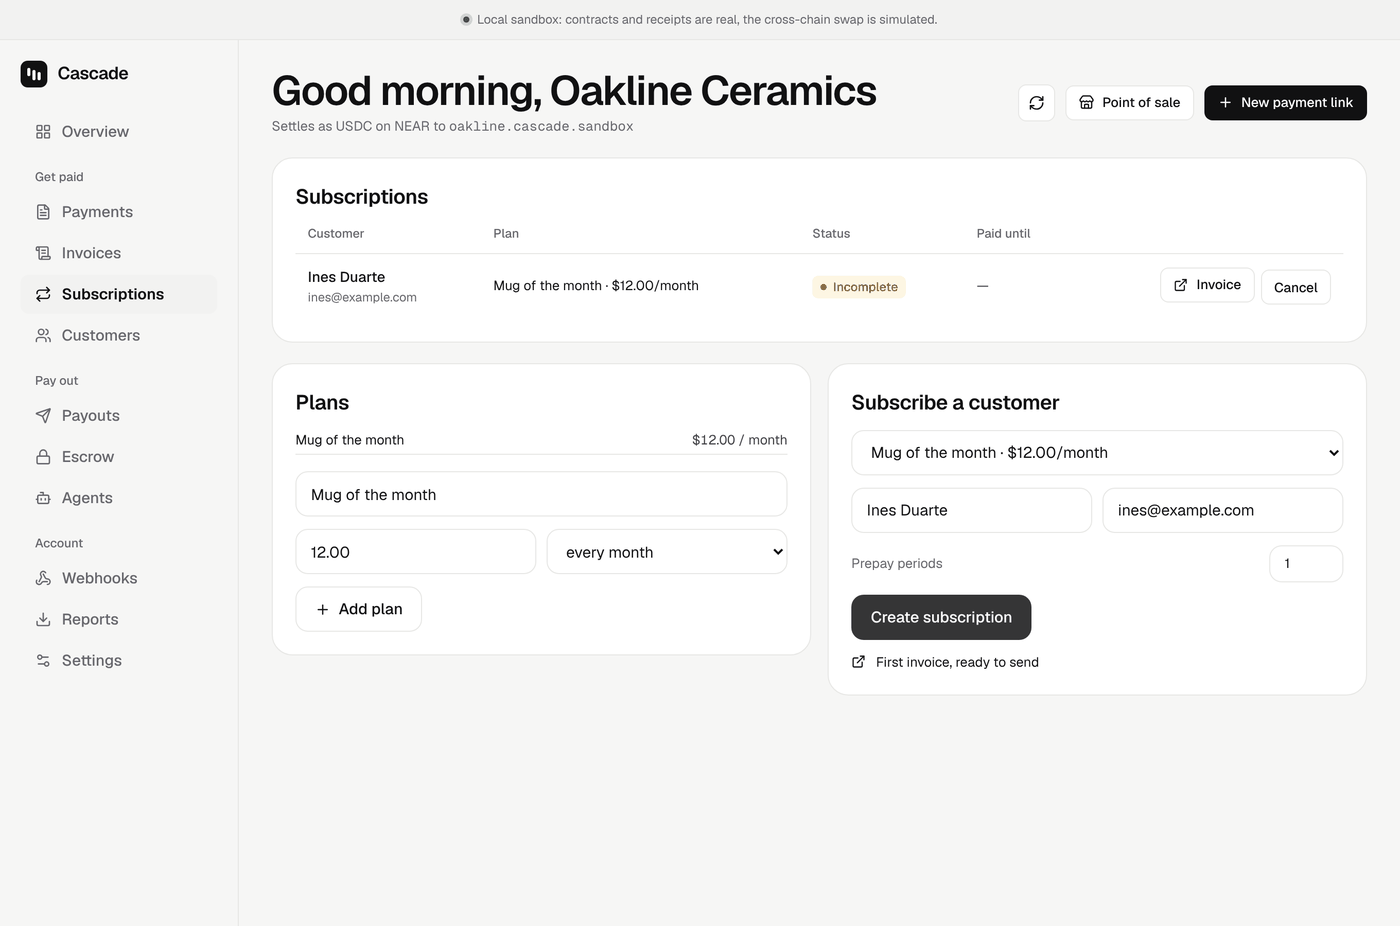
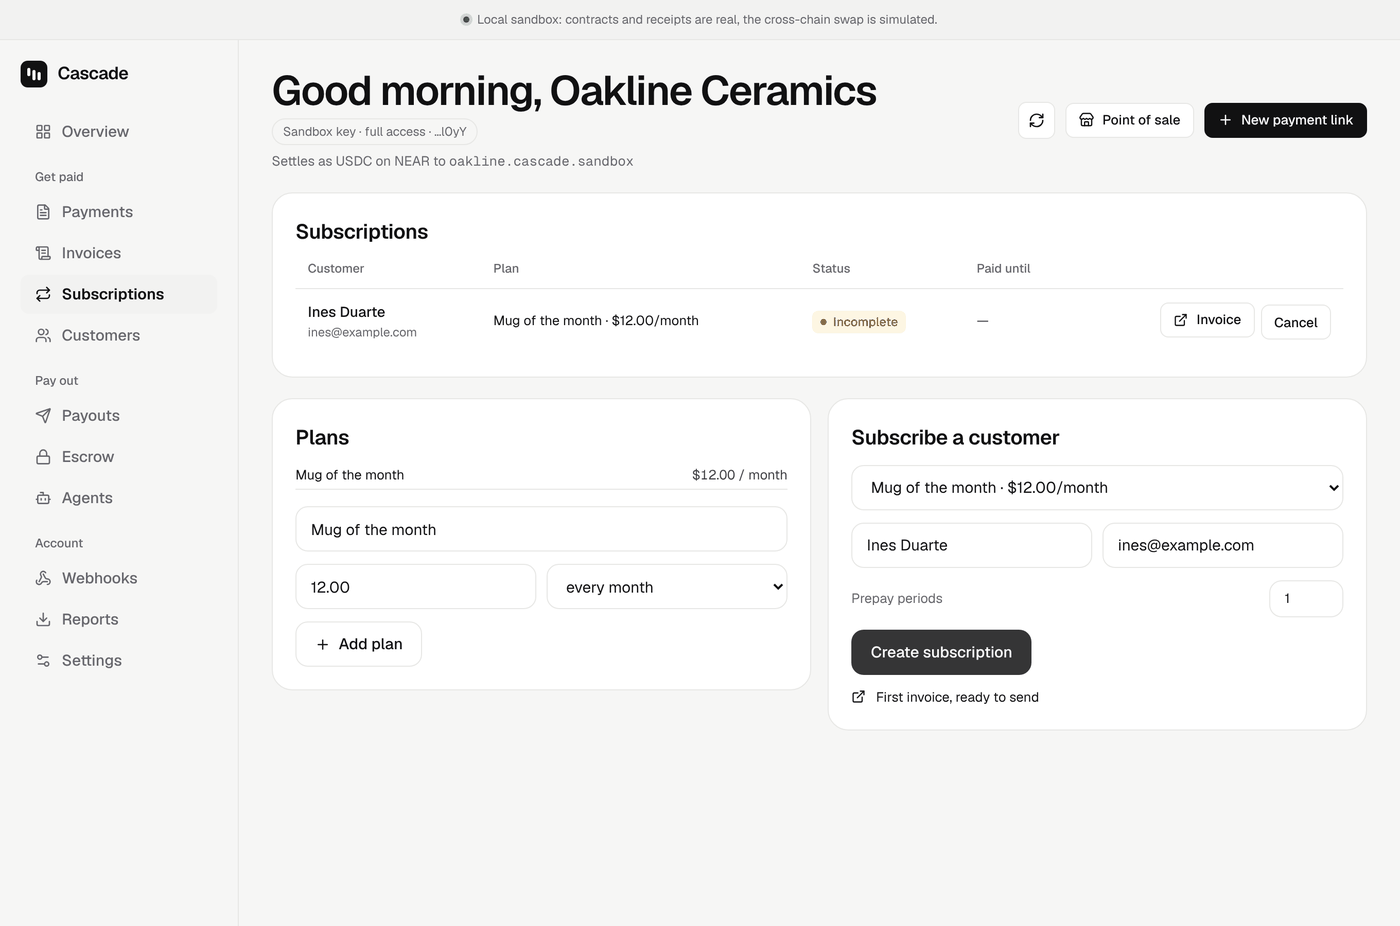
Round globe hero, mobile dashboard bar, safer wallet and key flow
- The orb is a true circle at every width (canvas follows its square box).
- Hero redesigned as a globe: coin pills placed by angle on the rim, one
  payment's route drawn across it, the payment in the centre and the
  receipt underneath.
- Dashboard below 900px: compact sticky bar with one scrollable tab row
  instead of the wrapped sidebar.
- A rejected or revoked key returns to sign-in with a message; the header
  shows which key is in use (sandbox or live, full or read-only).
- The NEAR wallet connector loads only when asked, and browsers without
  Ed25519 in WebCrypto get a clear message instead of an error on load.
- README screenshots refreshed.

diff --git a/apps/web/app/globals.css b/apps/web/app/globals.css
@@ -203,8 +203,14 @@ button { font: inherit; color: inherit; }
 }
 @media (max-width: 900px) {
   .dash { grid-template-columns: 1fr !important; }
-  .dash-side { flex-direction: row !important; flex-wrap: wrap; align-items: center; border-right: 0 !important; border-bottom: 1px solid var(--line); position: static !important; height: auto !important; }
-  .dash-side nav { display: flex !important; }
+  .dash-side { display: grid !important; grid-template-columns: 1fr auto; align-items: center; gap: 10px !important; padding: 12px 16px 0 !important; border-right: 0 !important; border-bottom: 1px solid var(--line); position: sticky !important; top: 0; z-index: 20; height: auto !important; background: var(--bg); }
+  .dash-side > nav { grid-column: 1 / -1; grid-row: 2; display: flex !important; gap: 4px !important; overflow-x: auto; scrollbar-width: none; margin: 0 -16px; padding: 0 16px 10px; }
+  .dash-side > nav::-webkit-scrollbar { display: none; }
+  .dash-side > nav > div { display: contents !important; }
+  .dash-side > nav .tiny { display: none; }
+  .dash-side .nav-item { flex: none; white-space: nowrap; }
+  .dash-side > button { margin-top: 0 !important; grid-column: 2; grid-row: 1; }
+  .dash > main { padding: 20px 16px 48px !important; }
   .dash-two { grid-template-columns: 1fr !important; }
 }
 
@@ -283,34 +289,44 @@ button { font: inherit; color: inherit; }
 .nav-menu-sheet a:hover { background: var(--card-2); color: var(--ink); }
 @media (max-width: 860px) { .nav-menu { display: block; } }
 
-/* ---------- hero: the dot cascade, monochrome */
-.hero-preview { position: relative; display: grid; place-items: center; padding: 28px 0; }
-.globe { position: relative; width: min(100%, 430px); aspect-ratio: 1; display: grid; place-items: center; }
+/* ---------- hero: the globe, monochrome */
+.hero-preview { position: relative; display: grid; justify-items: center; gap: 18px; padding: 24px 0; }
+/* Room on each side for the coin pills that sit on the rim. */
+.globe { position: relative; width: min(calc(100% - 72px), 440px); aspect-ratio: 1 / 1; }
+.globe > canvas { position: absolute; inset: 0; }
 
-/* Coins drift over the sphere. The logos are single-colour, so dark mode just inverts them. */
-.coin-float { position: absolute; display: grid; place-items: center; margin: -5% 0 0 -5%; animation: bob 7s ease-in-out infinite; }
-.coin-float img { width: 100%; height: 100%; opacity: .92; filter: drop-shadow(0 6px 14px color-mix(in srgb, var(--ink) 22%, transparent)); }
-@keyframes bob { 0%, 100% { transform: translateY(-5px); } 50% { transform: translateY(5px); } }
+.coin-pill { position: absolute; z-index: 2; transform: translate(-50%, -50%); display: inline-flex; align-items: center; gap: 6px; padding: 5px 11px 5px 6px; border-radius: 999px; background: var(--card); border: 1px solid var(--line); box-shadow: var(--shadow); font-size: 0.75rem; font-weight: 600; letter-spacing: .01em; white-space: nowrap; animation: pill-bob 7s ease-in-out infinite; }
+.coin-pill img { width: 18px; height: 18px; }
+@keyframes pill-bob { 0%, 100% { transform: translate(-50%, calc(-50% - 3px)); } 50% { transform: translate(-50%, calc(-50% + 3px)); } }
 
-/* Cards sit in the corners the circle leaves empty, clear of the sphere. */
-.globe-chip { position: absolute; z-index: 2; display: inline-flex; align-items: center; gap: 8px; white-space: nowrap; padding: 11px 15px; border-radius: var(--r-md); background: var(--card); border: 1px solid var(--line); box-shadow: var(--shadow); font-size: 0.8125rem; font-weight: 500; animation: float-in .6s cubic-bezier(.2,.7,.2,1) both; }
-.chip-paid { top: 0; right: 0; animation-delay: .35s; }
-.chip-receipt { bottom: 0; left: 0; animation-delay: .55s; }
+/* One payment's route across the sphere. */
+.globe-route { position: absolute; inset: 0; width: 100%; height: 100%; overflow: visible; pointer-events: none; }
+.globe-route path { fill: none; stroke: var(--ink); stroke-width: .5; stroke-dasharray: 1.2 1.6; vector-effect: non-scaling-stroke; stroke-width: 1.5; opacity: .7; animation: route 2.4s linear infinite; }
+.globe-route circle { display: none; }
+@keyframes route { to { stroke-dashoffset: -28; } }
+.route-dot { position: absolute; z-index: 1; width: 14px; height: 14px; margin: -7px 0 0 -7px; border-radius: 50%; background: var(--ink); box-shadow: 0 0 0 5px color-mix(in srgb, var(--ink) 14%, transparent); }
+.route-dot.end { background: var(--card); border: 3px solid var(--ink); }
+
+.globe-pay { position: absolute; z-index: 3; left: 50%; top: 56%; transform: translate(-50%, -50%); display: inline-flex; align-items: center; gap: 8px; padding: 10px 16px; border-radius: 999px; background: color-mix(in srgb, var(--card) 88%, transparent); backdrop-filter: blur(8px); -webkit-backdrop-filter: blur(8px); border: 1px solid var(--line); box-shadow: var(--shadow); font-size: 0.8125rem; white-space: nowrap; }
+.globe-arrow { font-weight: 600; }
+
+.globe-receipt { position: relative; display: inline-flex; align-items: center; gap: 8px; padding: 11px 15px; border-radius: var(--r-md); background: var(--card); border: 1px solid var(--line); box-shadow: var(--shadow); font-size: 0.8125rem; font-weight: 500; animation: float-in .6s .4s cubic-bezier(.2,.7,.2,1) both; }
 .stub-perf { position: absolute; left: 14px; right: 14px; top: -1px; border-top: 1.5px dashed var(--line-strong); }
 
-@media (prefers-reduced-motion: reduce) { .coin-float { animation: none; } }
-@media (max-width: 900px) {
-  .globe { width: min(100%, 320px); }
-  .globe-chip { font-size: 0.75rem; padding: 9px 12px; }
-  .chip-paid { top: -6px; right: -6px; }
-  .chip-receipt { bottom: -6px; left: -6px; }
+@media (prefers-reduced-motion: reduce) { .coin-pill, .globe-route path { animation: none; } }
+@media (max-width: 560px) {
+  .globe { width: min(calc(100% - 64px), 340px); }
+  .coin-pill { font-size: 0.6875rem; padding: 4px 9px 4px 5px; }
+  .coin-pill img { width: 15px; height: 15px; }
+  .globe-pay { font-size: 0.75rem; padding: 8px 12px; gap: 6px; top: 62%; }
+  .globe-pay .muted:last-child { display: none; }
 }
 
 @media (max-width: 560px) { .net-chip { display: none; } .nav-inner { gap: 8px; } }
 
 /* The coin logos ship black; dark mode flips them to white. */
-@media (prefers-color-scheme: dark) { :root:not([data-theme="light"]) .coin-float img { filter: invert(1) drop-shadow(0 6px 14px rgba(0,0,0,.55)); } }
-:root[data-theme="dark"] .coin-float img { filter: invert(1) drop-shadow(0 6px 14px rgba(0,0,0,.55)); }
+@media (prefers-color-scheme: dark) { :root:not([data-theme="light"]) .coin-pill img { filter: invert(1); } }
+:root[data-theme="dark"] .coin-pill img { filter: invert(1); }
 
 /* ---------- operator view (/admin, unlinked) */
 .admin-tiles { display: grid; grid-template-columns: repeat(auto-fill, minmax(170px, 1fr)); gap: 12px; }
@@ -319,3 +335,5 @@ button { font: inherit; color: inherit; }
 .admin-wrap { max-width: 360px; white-space: pre-wrap; }
 .admin-title { font-size: 1.375rem; font-weight: 600; letter-spacing: -0.01em; }
 .wallet-bar { flex-wrap: wrap; gap: 10px; }
+
+.key-chip { display: inline-flex; align-items: center; gap: 6px; padding: 3px 10px; border-radius: 999px; border: 1px solid var(--line); font-size: 0.75rem; color: var(--muted); }

diff --git a/apps/web/app/page.tsx b/apps/web/app/page.tsx
@@ -65,46 +65,58 @@ const session = await cascade.checkout.create({
 // browser: openCheckout({ sessionUrl: session.url })
 // webhook: verifyWebhook(body, header, secret) -> ship it`;
 
-/** Coins float over the cascade. Monochrome: the logo's own shape, in ink. */
-const floaters: { c: string; x: number; y: number; size: number; delay: number }[] = [
-  { c: "btc", x: 44, y: 2, size: 46, delay: 0 },
-  { c: "eth", x: 78, y: 20, size: 40, delay: 1.1 },
-  { c: "sol", x: 88, y: 56, size: 34, delay: 2.2 },
-  { c: "usdc", x: 62, y: 82, size: 42, delay: 0.6 },
-  { c: "usdt", x: 28, y: 88, size: 34, delay: 1.7 },
-  { c: "xrp", x: 4, y: 60, size: 40, delay: 2.8 },
-  { c: "doge", x: 10, y: 24, size: 36, delay: 1.4 },
-  { c: "bnb", x: 22, y: 50, size: 32, delay: 2.4 },
+/**
+ * Coins sit on and just outside the rim of the sphere, placed by angle so they
+ * stay on the circle at any size. `a`: degrees clockwise from 3 o'clock;
+ * `r`: distance from the centre as a fraction of the half-width (the dots end at 0.84).
+ */
+const rimCoins: { c: string; t: string; a: number; r: number }[] = [
+  { c: "btc", t: "BTC", a: -98, r: 0.9 },
+  { c: "eth", t: "ETH", a: -42, r: 0.94 },
+  { c: "sol", t: "SOL", a: 8, r: 0.96 },
+  { c: "usdc", t: "USDC", a: 52, r: 0.9 },
+  { c: "usdt", t: "USDT", a: 104, r: 0.92 },
+  { c: "xrp", t: "XRP", a: 148, r: 0.94 },
+  { c: "bnb", t: "BNB", a: 192, r: 0.96 },
+  { c: "doge", t: "DOGE", a: 236, r: 0.92 },
 ];
+const at = (a: number, r: number) => ({ left: `${50 + 50 * r * Math.cos((a * Math.PI) / 180)}%`, top: `${50 + 50 * r * Math.sin((a * Math.PI) / 180)}%` });
 
 /**
- * The hero: the cascade of dots with coins floating over it, and the receipt
- * off to the side. Monochrome on purpose, so colour only ever means status.
+ * The hero: a sphere of dots with the coins people pay with around it, one
+ * payment's route drawn across it, and the receipt underneath. Monochrome on
+ * purpose, so colour only ever means status.
  */
 function HeroPreview() {
   return (
     <div className="hero-preview" aria-hidden="true">
       <div className="globe">
-        <DotOrb size={430} points={2600} />
-        {floaters.map(({ c, x, y, size, delay }) => (
-          <span
-            key={c}
-            className="coin-float"
-            style={{ left: `${x}%`, top: `${y}%`, width: size, height: size, animationDelay: `${delay}s` }}
-          >
+        <DotOrb size={460} points={2600} />
+        <svg className="globe-route" viewBox="0 0 100 100" preserveAspectRatio="none">
+          <path d="M28 38 Q 50 14 72 32" />
+          <circle cx="28" cy="38" r="1.6" />
+          <circle cx="72" cy="32" r="1.6" />
+        </svg>
+        <span className="route-dot" style={{ left: "28%", top: "38%" }} />
+        <span className="route-dot end" style={{ left: "72%", top: "32%" }} />
+        {rimCoins.map(({ c, t, a, r }, i) => (
+          <span key={c} className="coin-pill" style={{ ...at(a, r), animationDelay: `${(i % 4) * 0.9}s` }}>
             {/* eslint-disable-next-line @next/next/no-img-element */}
-            <img src={`/coins/${c}.svg`} alt="" width={size} height={size} />
+            <img src={`/coins/${c}.svg`} alt="" width={18} height={18} />
+            {t}
           </span>
         ))}
+        <div className="globe-pay">
+          <span className="muted">ETH on Base</span>
+          <span className="globe-arrow">→</span>
+          <strong>$25.00 USDC</strong>
+          <span className="muted">on NEAR</span>
+        </div>
       </div>
-      <div className="globe-chip chip-paid">
-        <span className="net-dot" />
-        <span><strong>$25.00</strong> USDC received</span>
-      </div>
-      <div className="globe-chip chip-receipt">
+      <div className="globe-receipt">
         <span className="stub-perf" />
         <FileCheck2 size={14} />
-        <span>Receipt #128 on NEAR</span>
+        <span>Receipt #128 recorded on NEAR</span>
         <Check size={13} />
       </div>
     </div>

diff --git a/apps/web/app/dashboard/page.tsx b/apps/web/app/dashboard/page.tsx
@@ -116,6 +116,7 @@ export default function Dashboard() {
   const [created, setCreated] = useState<string | null>(null);
   const [loading, setLoading] = useState(false);
   const [error, setError] = useState<string | null>(null);
+  const [signInError, setSignInError] = useState<string | null>(null);
 
   useEffect(() => setKey(readKey()), []);
 
@@ -134,7 +135,17 @@ export default function Dashboard() {
       setHooks(h.data);
       setBalance(b?.usdc ?? null);
     } catch (e) {
-      setError((e as Error).message);
+      if ((e as { status?: number }).status === 401) {
+        // The key is wrong or was revoked: forget it and ask again.
+        try {
+          sessionStorage.removeItem(KEY);
+        } catch {
+          /* private mode */
+        }
+        setKey("");
+        setMe(null);
+        setSignInError("That key was not accepted. It may be mistyped or revoked.");
+      } else setError((e as Error).message);
     } finally {
       setLoading(false);
     }
@@ -182,7 +193,9 @@ export default function Dashboard() {
               <p className="soft small" style={{ margin: "8px 0 0" }}>Paste your secret key (sk_…). It stays in this browser tab and is sent only to the Cascade API.</p>
             </div>
             <input className="input" type="password" value={input} onChange={(e) => setInput(e.target.value)} placeholder="sk_live_… or a read-only rk_live_…" aria-label="Secret key" />
-            <button className="btn block" disabled={!/^(sk|rk)_/.test(input)} onClick={() => { try { sessionStorage.setItem(KEY, input); } catch { /* private mode */ } setKey(input); }}>Open dashboard</button>
+            <button className="btn block" disabled={!/^(sk|rk)_/.test(input.trim())} onClick={() => { const k = input.trim(); try { sessionStorage.setItem(KEY, k); } catch { /* private mode */ } setSignInError(null); setInput(""); setKey(k); }}>Open dashboard</button>
+            {signInError && <div className="tiny error">{signInError}</div>}
+            <div className="tiny muted">No key yet? <a href="/start">Create a sandbox account</a> in a few seconds.</div>
           </div>
         </main>
       </div>
@@ -244,7 +257,10 @@ export default function Dashboard() {
           <div className="row" style={{ flexWrap: "wrap" }}>
             <div>
               <div className="h1">{greeting()}, {me?.name ?? "…"}</div>
-              <div className="small muted" style={{ marginTop: 4 }}>Settles as USDC {me?.payout ? <>on {chainName(me.payout.chain)} to <span className="mono">{me.payout.address}</span></> : <>on NEAR to <span className="mono">{me?.account}</span></>}</div>
+              <div className="row-start" style={{ marginTop: 6, flexWrap: "wrap", gap: 8 }}>
+                <span className="key-chip" title="Signed in with this key in this browser tab only">{key.includes("_test_") ? "Sandbox" : "Live"} key · {key.startsWith("rk_") ? "read-only" : "full access"} · …{key.slice(-4)}</span>
+              </div>
+              <div className="small muted" style={{ marginTop: 6 }}>Settles as USDC {me?.payout ? <>on {chainName(me.payout.chain)} to <span className="mono">{me.payout.address}</span></> : <>on NEAR to <span className="mono">{me?.account}</span></>}</div>
             </div>
             <div className="row-start">
               <button className="icon-btn" onClick={() => void load()} aria-label="Refresh">{loading ? <Loader2 size={16} className="spin" /> : <RefreshCw size={16} />}</button>

diff --git a/apps/web/lib/wallet.ts b/apps/web/lib/wallet.ts
@@ -17,6 +17,27 @@ export interface Deployment {
 
 let deployment: Promise<Deployment> | null = null;
 let connector: Promise<Connector> | null = null;
+/** The last connected account, so the page can show it without loading the connector. */
+const REMEMBER = "cascade-wallet-account";
+const remember = (a: string | null) => {
+  try {
+    if (a) localStorage.setItem(REMEMBER, a);
+    else localStorage.removeItem(REMEMBER);
+  } catch {
+    /* storage blocked */
+  }
+};
+
+/** NEAR Connect signs with Ed25519 in WebCrypto, which some older mobile browsers lack. */
+async function supported(): Promise<boolean> {
+  try {
+    await crypto.subtle.generateKey({ name: "Ed25519" } as unknown as AlgorithmIdentifier, false, ["sign", "verify"]);
+    return true;
+  } catch {
+    return false;
+  }
+}
+const UNSUPPORTED = "This browser cannot run the NEAR wallet connector. Update it, or use Chrome, Edge, Firefox or Safari on a computer.";
 
 /** Contract ids and network, from the server this page is served with. */
 export function getDeployment(): Promise<Deployment> {
@@ -30,17 +51,20 @@ export function getDeployment(): Promise<Deployment> {
 
 function getConnector(): Promise<Connector> {
   connector ??= (async () => {
+    if (!(await supported())) throw new Error(UNSUPPORTED);
     const [{ NearConnector }, d] = await Promise.all([import("@hot-labs/near-connect"), getDeployment()]);
     return new NearConnector({ network: d.network, footerBranding: null });
   })();
+  connector.catch(() => {
+    connector = null; // let a later click try again
+  });
   return connector;
 }
 
-/** The connected account, or null. Does not prompt. */
-export async function connectedAccount(): Promise<string | null> {
+/** The account connected last time, without loading anything. */
+export function rememberedAccount(): string | null {
   try {
-    const { accounts } = await (await getConnector()).getConnectedWallet();
-    return accounts[0]?.accountId ?? null;
+    return localStorage.getItem(REMEMBER);
   } catch {
     return null;
   }
@@ -52,11 +76,13 @@ export async function connectWallet(): Promise<string> {
   const w = await c.connect();
   const [a] = await w.getAccounts();
   if (!a) throw new Error("the wallet returned no account");
+  remember(a.accountId);
   return a.accountId;
 }
 
 export async function disconnectWallet(): Promise<void> {
-  await (await getConnector()).disconnect().catch(() => {});
+  remember(null);
+  if (connector) await (await connector).disconnect().catch(() => {});
 }
 
 const TGAS = "000000000000";

diff --git a/apps/web/app/dashboard/Wallet.tsx b/apps/web/app/dashboard/Wallet.tsx
@@ -2,19 +2,14 @@
 
 import { useEffect, useState } from "react";
 import { Wallet as WalletIcon } from "lucide-react";
-import { connectWallet, connectedAccount, disconnectWallet } from "../../lib/wallet";
+import { connectWallet, disconnectWallet, rememberedAccount } from "../../lib/wallet";
 
 /** The merchant's NEAR wallet, shared by every tab that needs a signature. */
 export function useWallet() {
   const [account, setAccount] = useState<string | null>(null);
   const [busy, setBusy] = useState(false);
-  useEffect(() => {
-    let live = true;
-    void connectedAccount().then((a) => live && setAccount(a));
-    return () => {
-      live = false;
-    };
-  }, []);
+  // Show the last account at once; the connector itself loads only on "Connect" or when signing.
+  useEffect(() => setAccount(rememberedAccount()), []);
   return {
     account,
     busy,

diff --git a/apps/web/app/dashboard/api.ts b/apps/web/app/dashboard/api.ts
@@ -8,7 +8,7 @@ export async function call<T>(key: string, path: string, body?: unknown): Promis
     ...(body !== undefined ? { body: JSON.stringify(body) } : {}),
   });
   const j = (await r.json().catch(() => ({}))) as T & { error?: { message: string } };
-  if (!r.ok) throw new Error(j.error?.message ?? `HTTP ${r.status}`);
+  if (!r.ok) throw Object.assign(new Error(j.error?.message ?? `HTTP ${r.status}`), { status: r.status });
   return j;
 }
 

diff --git a/apps/web/app/components/DotOrb.tsx b/apps/web/app/components/DotOrb.tsx
@@ -102,5 +102,5 @@ export function DotOrb({ size = 420, points = 1150, className }: { size?: number
     };
   }, [size, points]);
 
-  return <canvas ref={ref} className={className} style={{ width: size, height: size, maxWidth: "100%" }} aria-hidden="true" />;
+  return <canvas ref={ref} className={className} style={{ width: "100%", height: "auto", aspectRatio: "1 / 1", display: "block" }} aria-hidden="true" />;
 }
